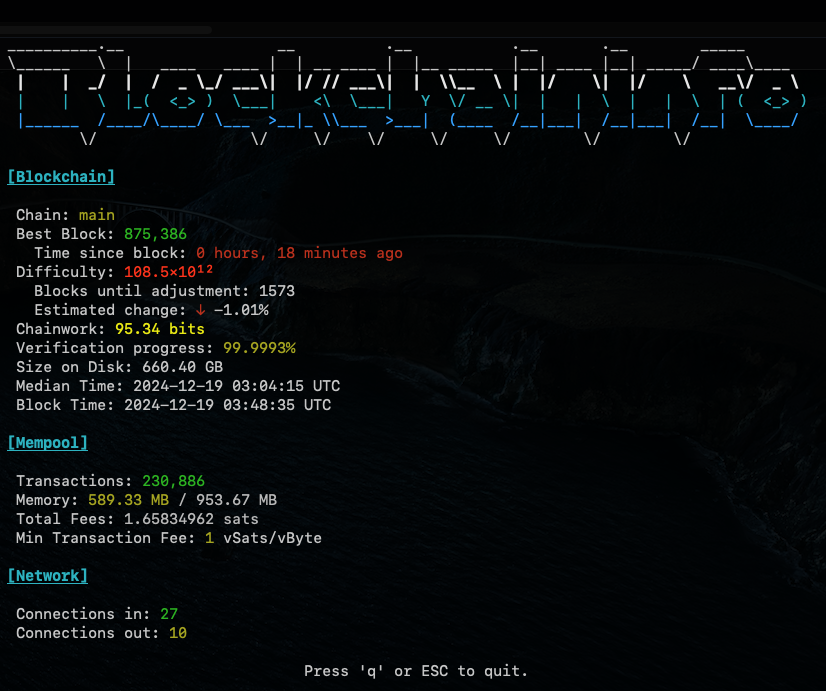
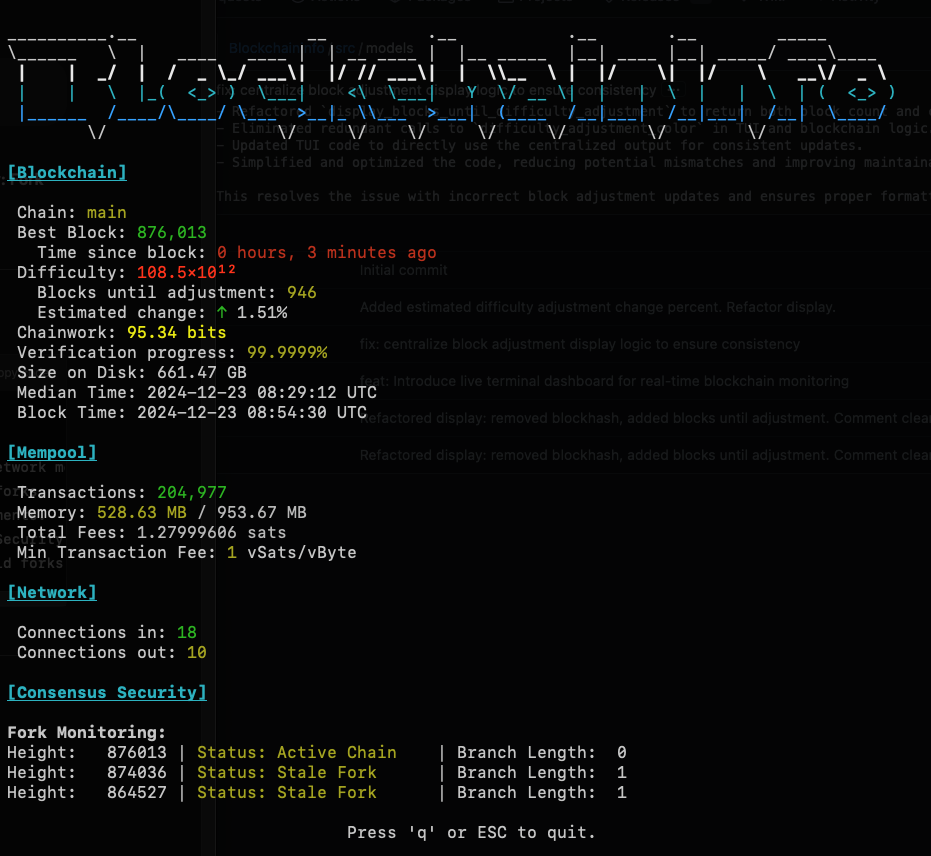
Update documentation: add Consensus Security block with Fork Monitoring

diff --git a/README.md b/README.md
@@ -41,6 +41,15 @@
    - Displays:
      - Number of inbound and outbound peer connections.
 
+4. **Consensus Security**  
+   - Introduced to provide insights into the blockchain's consensus state.
+   - Current metrics:
+     - **Fork Monitoring**:
+       - Displays:
+         - The **Active Chain** (height, status, branch length).
+         - The **Last Two Forks** (height, status, branch length).
+       - Tracks reorganization risks and stale forks to enhance network visibility.
+
 ---
 
 ## File Structure
@@ -55,7 +64,8 @@
     ├── display/
     │   ├── display_blockchain_info.rs  # Displays blockchain data.
     │   ├── display_mempool_info.rs     # Displays mempool data.
-    │   └── display_network_info.rs     # Displays network data.
+    │   ├── display_network_info.rs     # Displays network data.
+    │   ├── display_consensus_security_info.rs  # Displays consensus security data.
     ├── display.rs        # Aggregates display modules.
     ├── lib.rs            # For testing.
     ├── main.rs           # Application entry point.
@@ -64,16 +74,17 @@
     │   ├── blockchain_info.rs  # Blockchain data model and implementations.
     │   ├── mempool_info.rs     # Mempool data model and implementations.
     │   ├── network_info.rs     # Network data model and implementations.
+    │   ├── consensus_security.rs # Consensus security data model.
     │   └── errors.rs           # Error handling.
     ├── models.rs         # Aggregates Data and Error modules.
     ├── rpc/              # RPC modules for interacting with the Bitcoin node.
     │   ├── block.rs      # Block data fetching.
     │   ├── blockchain.rs # Blockchain data fetching.
     │   ├── mempool.rs    # Mempool data fetching.
-    │   └── network.rs    # Network data fetching.
+    │   ├── network.rs    # Network data fetching.
+    │   └── chain_tips.rs # Fetches chain tips for consensus monitoring.
     ├── rpc.rs            # Aggregates RPC modules.
-    ├── utils.rs          # Utility functions (e.g., data formatting).
-    └── dashboard.rs      # Implements the live terminal dashboard functionality.
+    └── utils.rs          # Utility functions (e.g., data formatting).
 ```
 
 ---
